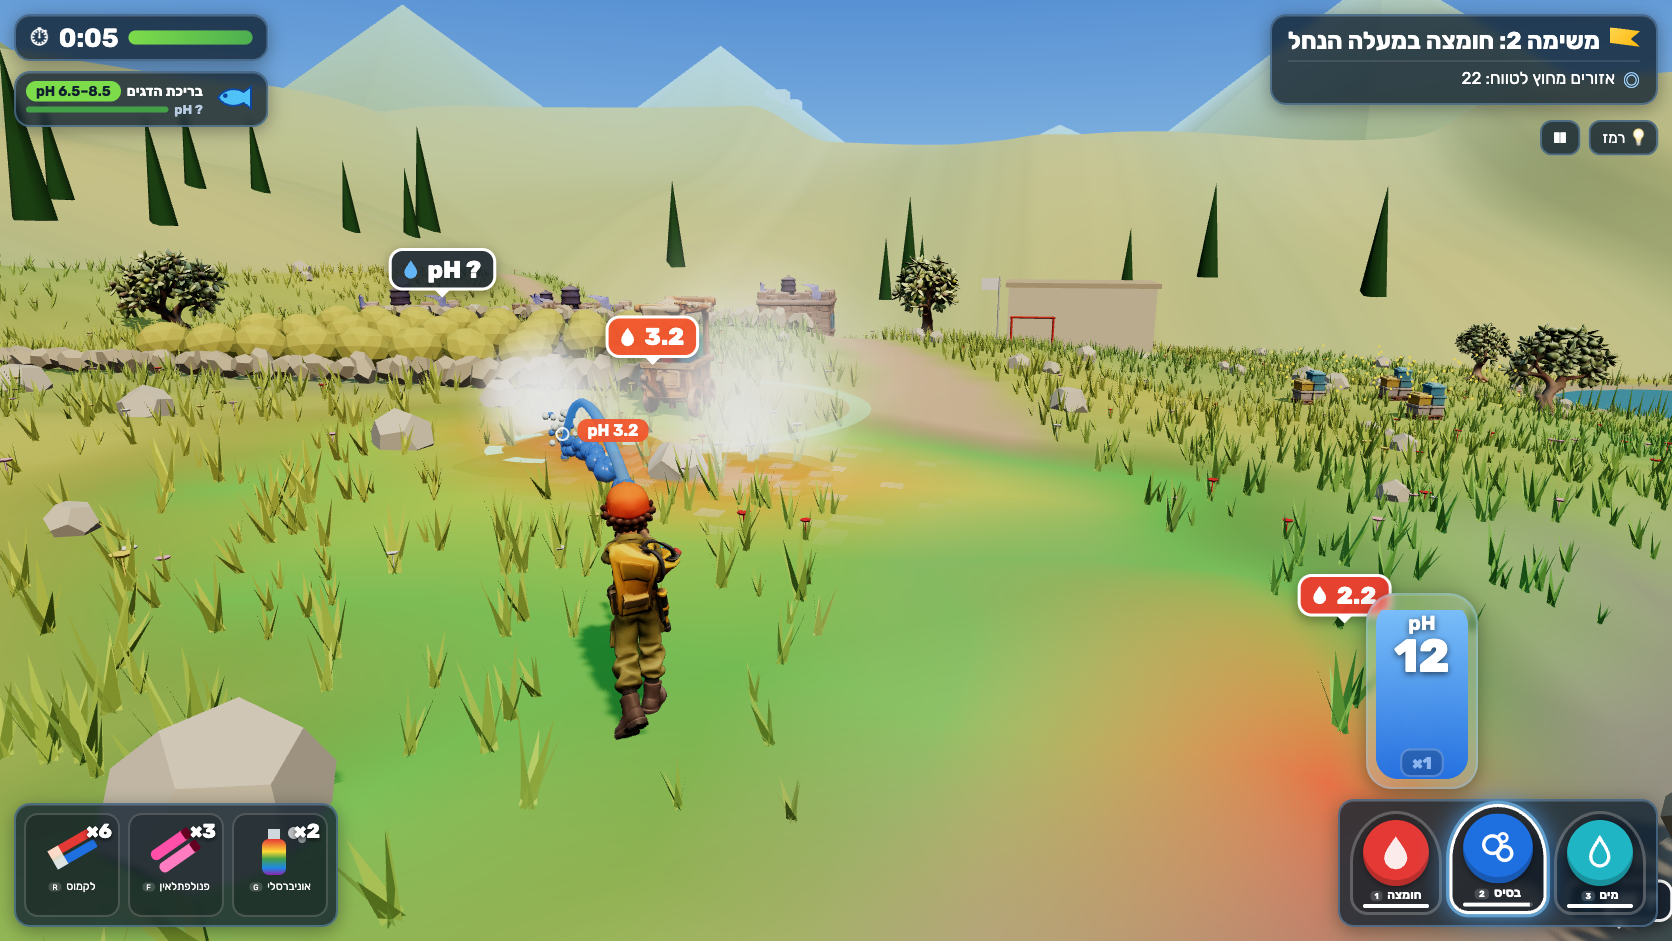
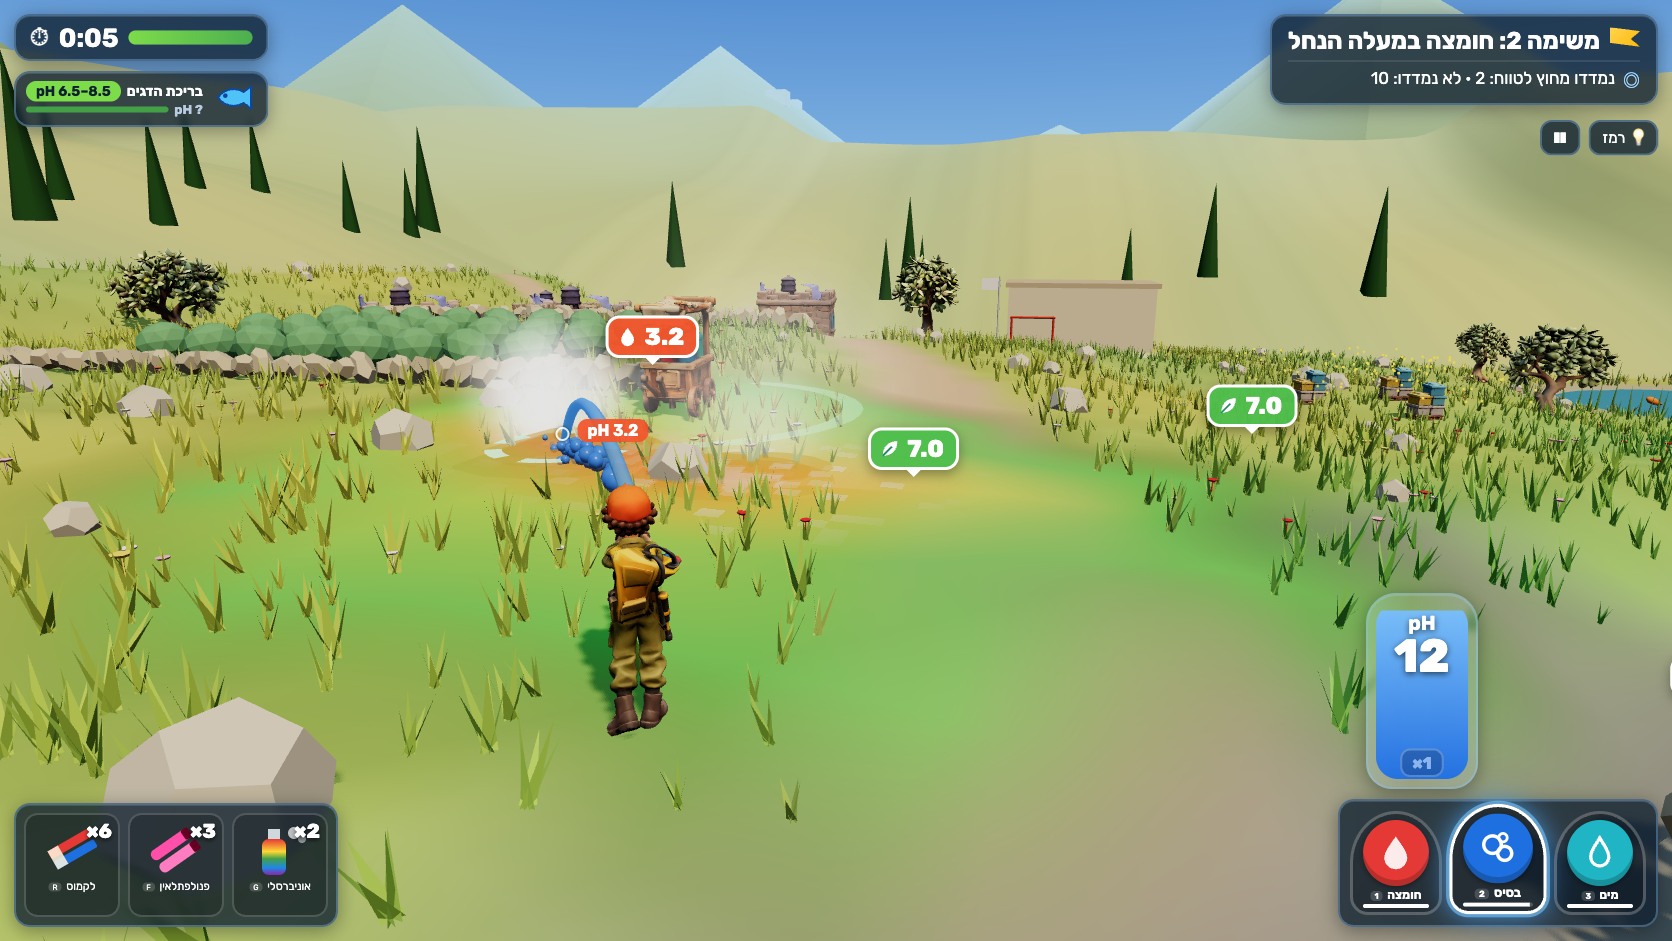
PLAYTEST log, recaptured gameplay after review fixes

diff --git a/PLAYTEST.md b/PLAYTEST.md
@@ -1,0 +1,56 @@
+# Playtest and verification log
+
+2026-10-25. What was checked, how, and what was not. Automation can prove rules, solvability and that wrong strategies fail; it cannot show the game is fun or that students learn. No students have played it yet.
+
+## Automated (`npm test`, 41 tests, ~33 s)
+
+- **pH model** (`tests/chem.test.ts`): 7 at equal acid/base; 0.001 mol/L → pH 3 / 11; ×10 per unit; round-trip with the soil buffer; clamp 0–14; dilution approaches 7 and never crosses it, ~10× volume per unit; pH 2 needs 8–10.5× the base of pH 3 with the buffer; reaction amounts; litmus / phenolphthalein / universal tables per Workbook; sprayer liquids pH 2/12 (×1) and 1/13 (×10).
+- **Grid** (`tests/world.test.ts`): creek chains connect and drain into the pond in both valleys; the acid/base/salt ledger is conserved through spreading, flooding, creek flow and reactions; water floods acid onto neighbours instead of neutralizing it; the weak-base canister is slow and never pushes pH above 8.5; a tap is exactly one puff; tank gauge pH; ×10 locked until the wagon in mission 2; phenolphthalein never reveals an acid's number; text state and learning events exist.
+- **Missions** (`tests/missions.test.ts`, played by a bot through the same inputs a player uses — stick, aim point, spray button, valve/strength keys, gadget throws — and that **only reads pH on ground it has measured with universal indicator**):
+  - every mission is won by its intended approach with ≥ 2★ (m1 21 s, m2 150 s, m3 62 s, m4 73 s, m5 160 s, m6 150 s game time);
+  - m1: water only barely moves the lemon puddle and spreads it; overshoot to > 9.5 is shown and fixable with acid;
+  - m2: the same 3 s of ×1 base fixes the pH 3 puddle but moves the pH 2 creek < 0.5; ×1-only and water-only lose the fish to acid; flooding the creek with ×10 base loses them to base;
+  - m3: phenolphthalein turns pink only on the lime, the acidic fertilizer stays colourless; acid on every pale patch acidifies the clean ones; base kills the olives; water only spreads the lime;
+  - m4: everything-to-7 fails the blueberries; constant base/acid/water fail;
+  - m5: doing nothing loses an asset to the acid rain;
+  - m6 (transfer): no hints; always base / acid / water / to-7 all fail; an **indicator-free "blind" ranger** (heat probing + a rule of thumb) does not win;
+  - m3: heat probing alone (no phenolphthalein) can win, but slower than 2× the indicator route — this is legitimate chemistry (neutralization releases heat) and is reported honestly rather than hidden.
+
+## Independent science review
+
+[`docs/SCIENCE_REVIEW.md`](docs/SCIENCE_REVIEW.md) (separate agent, edited no code). It confirmed the chemistry and found 5 science/Hebrew errors and an important bypass: the HUD leaked the true pH on unmeasured ground (grey wash, "pH ?" markers, chime/overshoot toasts, objective counter), so an indicator-free bot won the transfer. Fixed in `dba41af`:
+
+- Mg(OH)₂ → CaCO₃ (limestone) canister; overshoot toast now judged against the cell's band ("too basic here" for blueberries pushed above 5.5 by base); pH 7.4 = "close to neutral (slightly basic)"; m2 brief no longer calls a dilute strong acid "weaker" and no longer gives the numbers away; colourless phenolphthalein = "pH below 8.2", not "not basic".
+- HUD shows only what the ranger could know: suspect/sprayed ground instead of out-of-band cells; chime and overshoot feedback only on measured ground; heat (steam) only while lots of acid/base reacts; objective counts measured cells and unmeasured suspect ground; blueberry bushes show the asset's health, not each cell's pH.
+- Fizz bubbles removed (acid + base makes no gas); the result card says the acid and base became salt + water that stays on the ground.
+- m3 gained an acidic fertilizer patch so "colourless ≠ fine" is learned by consequence; win text no longer says colourless dust needed no care.
+- Balance: m4 blueberry decay halved, pond buffer raised (a careful "hold the line" plan in m2 can win), canister really slow, soils buffer differently (orchard more, school yard less), m6 blueberries start at 6.2 so a dose memorized in m4 overshoots, blueberry beds default to pH 5.
+- Wording: מדללים, "פי 10 בריכוז יוני H⁺", חוצץ (buffer), band colours, typo in the controls line.
+
+See the re-check section in the review for the reviewer's verification of these fixes.
+
+## In the browser (built-in browser pane, dev server, 1280×720, DPR 2)
+
+Played through real keyboard events and mouse aim (`__phr.aimWorld` moves the free-mouse cursor; `advanceTime` steps the sim):
+
+- Mission 1 start to win: walk to the puddle, litmus (marker turns red, "לקמוס: חומצי"), universal mist (badge 3.0, red/orange wash), base spray (steam, number climbing), overshoot to 11.4 (purple badge, litmus flips to "בסיסי"), finished with taps → **won, 3★**, result card with salt explanation.
+- Mission 2: ×10 locked at start (toast), walk to the wagon, refill ring → "תרכיז ×10 נטען", tank switches to pH 13 ×10.
+- Mission 3: two phenolphthalein flares → pink "בסיסי (מעל 8.2)" badges on lime, fertilizer reads "שקוף (pH מתחת ל-8.2)".
+- Mission 6 at night: glow wash, fireflies, head-lamp, 4 assets in the HUD, hint button hidden.
+- Pause (Esc) stops the sim, restart → brief → Enter → mission at t = 0 with the tank reset; hint (H) shows the box and logs a `hint` event.
+- Tripo models visible in gameplay: rigged ranger (idle/run + procedural spray pose), hives, wagon, olive trees, houses, tanker.
+- Console: no errors (one three.js warning about the shadow-map type was fixed).
+- FPS (in-game counter, real time, mission 2 while running and spraying): 120 fps on this Mac at DPR 2. Not measured on low-end hardware.
+- Production build: JS 773 KB (207 KB gzip), CSS 25 KB, models 3.2 MB, `dist/` 5.4 MB; works from `npm run preview`.
+
+Captures through real input at the mockups' viewport: `docs/captures/` (see [docs/VISUAL_REVIEW.md](docs/VISUAL_REVIEW.md)); phone width 390×844 in `06-mobile.png`.
+
+## Not verified / known limits
+
+- No human playtest; fun and learning are untested hypotheses.
+- Touch controls were not exercised on a real touch device (the stick, look-drag and spray button exist; the layout was checked at 390×844).
+- Pointer-lock mouse look cannot be driven by automation; the free-mouse mode (cursor aims, edge turns the camera) was used for tests.
+- Sound is synthesized WebAudio and was not listened to by a person.
+- The kid-like model in the review lost m2, m4 and m6 before the balance fixes; see the re-check for results after them. Missions 2 and 6 may still feel hard for some 13-year-olds.
+- The Tripo house has two lavender fin artefacts on its roof.
+- Hebrew copy was written by the build agent and checked by the science reviewer, not by a native-speaking teacher.
